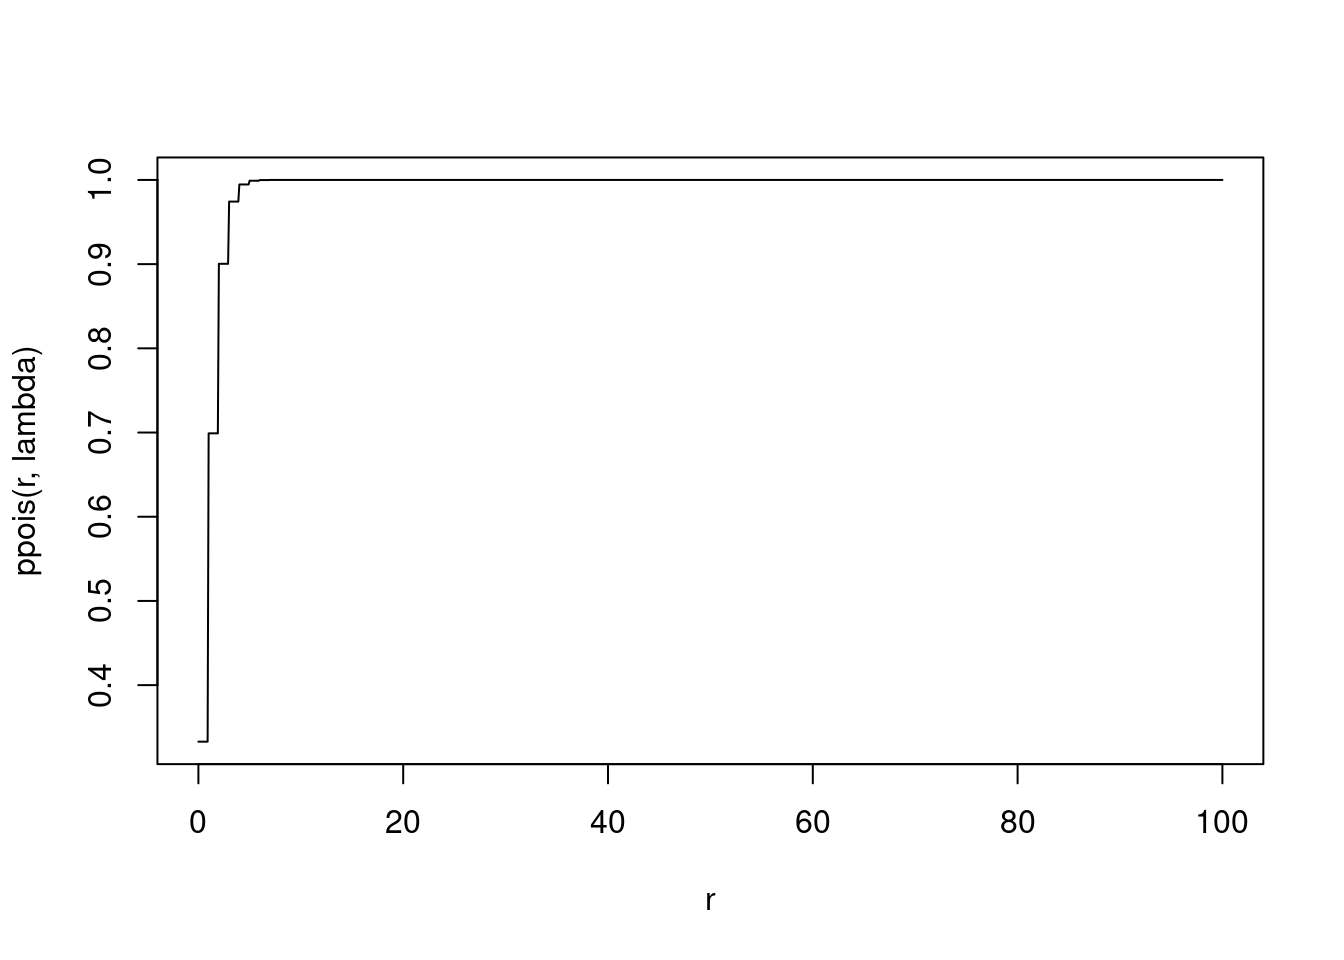
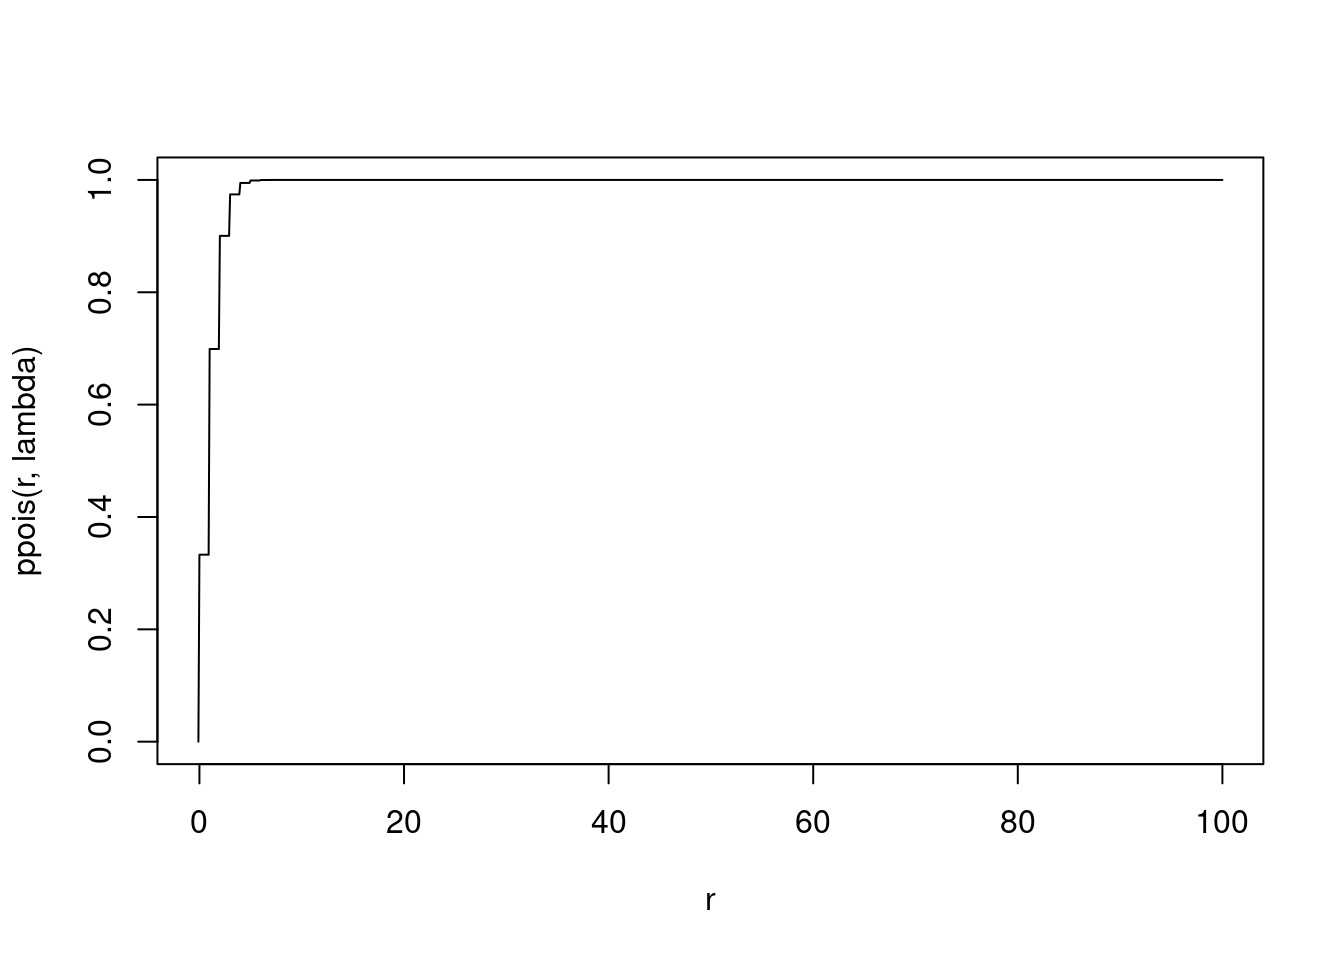
fixed CDF graph for poisson to start at 0.0

diff --git a/_book/geometric-and-poisson-distributions.html b/_book/geometric-and-poisson-distributions.html
@@ -402,7 +402,7 @@ code span.wa { color: #60a0b0; font-weight: bold; font-style: italic; } /* Warni
 <p>The cumulative distribution, the probability that <span class="math inline">\(Y \leq r\)</span>, can be plotted, it is coded in R as <em>ppois</em>:</p>
 <div class="sourceCode" id="cb18"><pre class="sourceCode r"><code class="sourceCode r"><span id="cb18-1"><a href="geometric-and-poisson-distributions.html#cb18-1" aria-hidden="true" tabindex="-1"></a>lambda <span class="ot">&lt;-</span> <span class="fl">1.1</span></span>
 <span id="cb18-2"><a href="geometric-and-poisson-distributions.html#cb18-2" aria-hidden="true" tabindex="-1"></a>n <span class="ot">&lt;-</span> <span class="dv">100</span> <span class="co"># The upper bound on n for our plot</span></span>
-<span id="cb18-3"><a href="geometric-and-poisson-distributions.html#cb18-3" aria-hidden="true" tabindex="-1"></a>r <span class="ot">&lt;-</span> <span class="fu">c</span>(<span class="dv">0</span><span class="sc">:</span>(<span class="dv">10</span><span class="sc">*</span>n))<span class="sc">/</span><span class="dv">10</span></span>
+<span id="cb18-3"><a href="geometric-and-poisson-distributions.html#cb18-3" aria-hidden="true" tabindex="-1"></a>r <span class="ot">&lt;-</span> <span class="fu">c</span>(<span class="sc">-</span><span class="dv">1</span><span class="sc">:</span>(<span class="dv">10</span><span class="sc">*</span>n))<span class="sc">/</span><span class="dv">10</span></span>
 <span id="cb18-4"><a href="geometric-and-poisson-distributions.html#cb18-4" aria-hidden="true" tabindex="-1"></a><span class="fu">plot</span>(r, <span class="fu">ppois</span>(r, lambda), <span class="at">type=</span><span class="st">&quot;l&quot;</span>)</span></code></pre></div>
 <p><img src="_main_files/figure-html/unnamed-chunk-10-1.png" width="672" /></p>
 <p>Again what is the effect of changing <span class="math inline">\(\lambda\)</span>? Make a prediction before you draw the graph. Again you may have to increase the fineness of our mesh in order for the graph to render correctly.</p>
